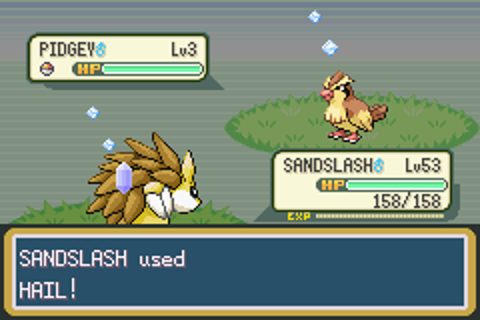
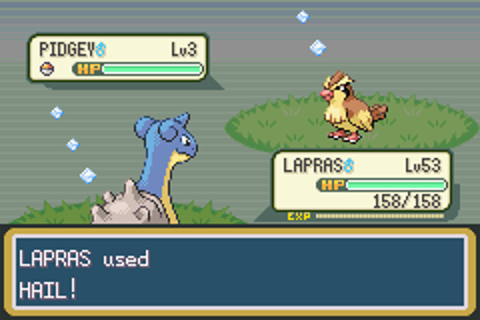
Weather shots: Blastoise Rain Dance, Charizard Sunny Day, Tyranitar Sand Stream, Lapras Hail
Each Pokemon can learn the move in this hack (checked tmhm_learnsets).

diff --git a/changes.html b/changes.html
@@ -78,10 +78,10 @@ ul.wx li:first-child{border-top:0}
 
     <section class="ovs" id="ov-weather" data-nav="Weather"><h2>Weather</h2>
       <div class="grid c2f" style="margin-top:0">
-        <div class="card"><h3>Rain</h3><img class="wxshot" src="img/weather_rain.png" alt="Rain Dance in battle: rain falls across the field" loading="lazy"><ul class="wx"><li>Water moves 1.5&times; stronger, Fire moves half power</li><li>Thunder never misses</li><li>SolarBeam half power</li><li>Weather Ball turns Water type, double power</li><li>Swift Swim doubles Speed</li><li>Rain Dish restores 1/16 HP each turn</li><li>Morning Sun, Synthesis and Moonlight heal 1/4 HP</li><li>From Rain Dance (5 turns) or Drizzle (until replaced)</li></ul></div>
-        <div class="card"><h3>Harsh sunlight</h3><img class="wxshot" src="img/weather_sun.png" alt="Sunny Day in battle: sunlight streams in" loading="lazy"><ul class="wx"><li>Fire moves 1.5&times; stronger, Water moves half power</li><li>SolarBeam fires without charging</li><li>Thunder accuracy drops to 50%</li><li>Pokémon can't be frozen</li><li>Weather Ball turns Fire type, double power</li><li>Chlorophyll doubles Speed</li><li>Morning Sun, Synthesis and Moonlight heal 2/3 HP</li><li>From Sunny Day (5 turns) or Drought (until replaced)</li></ul></div>
-        <div class="card"><h3>Sandstorm</h3><img class="wxshot" src="img/weather_sand.png" alt="Sandstorm in battle: the field is swept with sand" loading="lazy"><ul class="wx"><li><span class="new">★</span> Rock types get 1.5&times; Sp. Def</li><li><span class="new">★</span> Sand Veil Pokémon get 1.5&times; Sp. Def</li><li>Everyone else takes 1/16 HP each turn, except Rock, Ground and Steel types and Sand Veil</li><li>Sand Veil lowers foes' accuracy against it</li><li>SolarBeam half power</li><li>Weather Ball turns Rock type, double power</li><li>Morning Sun, Synthesis and Moonlight heal 1/4 HP</li><li>From Sandstorm (5 turns) or Sand Stream (until replaced)</li></ul></div>
-        <div class="card"><h3>Hail</h3><img class="wxshot" src="img/weather_hail.png" alt="Hail in battle: ice pellets fall" loading="lazy"><ul class="wx"><li><span class="new">★</span> Ice types get 1.5&times; Defense</li><li><span class="new">★</span> Blizzard never misses</li><li>Everyone else takes 1/16 HP each turn, except Ice types</li><li>SolarBeam half power</li><li>Weather Ball turns Ice type, double power</li><li>Morning Sun, Synthesis and Moonlight heal 1/4 HP</li><li>From Hail (5 turns)</li></ul></div>
+        <div class="card"><h3>Rain</h3><img class="wxshot" src="img/weather_rain.png?v=2" alt="Blastoise uses Rain Dance and rain falls across the field" loading="lazy"><ul class="wx"><li>Water moves 1.5&times; stronger, Fire moves half power</li><li>Thunder never misses</li><li>SolarBeam half power</li><li>Weather Ball turns Water type, double power</li><li>Swift Swim doubles Speed</li><li>Rain Dish restores 1/16 HP each turn</li><li>Morning Sun, Synthesis and Moonlight heal 1/4 HP</li><li>From Rain Dance (5 turns) or Drizzle (until replaced)</li></ul></div>
+        <div class="card"><h3>Harsh sunlight</h3><img class="wxshot" src="img/weather_sun.png?v=2" alt="Charizard uses Sunny Day and sunlight streams in" loading="lazy"><ul class="wx"><li>Fire moves 1.5&times; stronger, Water moves half power</li><li>SolarBeam fires without charging</li><li>Thunder accuracy drops to 50%</li><li>Pokémon can't be frozen</li><li>Weather Ball turns Fire type, double power</li><li>Chlorophyll doubles Speed</li><li>Morning Sun, Synthesis and Moonlight heal 2/3 HP</li><li>From Sunny Day (5 turns) or Drought (until replaced)</li></ul></div>
+        <div class="card"><h3>Sandstorm</h3><img class="wxshot" src="img/weather_sand.png?v=2" alt="Tyranitar's Sand Stream whips up a sandstorm" loading="lazy"><ul class="wx"><li><span class="new">★</span> Rock types get 1.5&times; Sp. Def</li><li><span class="new">★</span> Sand Veil Pokémon get 1.5&times; Sp. Def</li><li>Everyone else takes 1/16 HP each turn, except Rock, Ground and Steel types and Sand Veil</li><li>Sand Veil lowers foes' accuracy against it</li><li>SolarBeam half power</li><li>Weather Ball turns Rock type, double power</li><li>Morning Sun, Synthesis and Moonlight heal 1/4 HP</li><li>From Sandstorm (5 turns) or Sand Stream (until replaced)</li></ul></div>
+        <div class="card"><h3>Hail</h3><img class="wxshot" src="img/weather_hail.png?v=2" alt="Lapras uses Hail and ice pellets fall" loading="lazy"><ul class="wx"><li><span class="new">★</span> Ice types get 1.5&times; Defense</li><li><span class="new">★</span> Blizzard never misses</li><li>Everyone else takes 1/16 HP each turn, except Ice types</li><li>SolarBeam half power</li><li>Weather Ball turns Ice type, double power</li><li>Morning Sun, Synthesis and Moonlight heal 1/4 HP</li><li>From Hail (5 turns)</li></ul></div>
       </div>
       <p class="subnote" style="margin-top:14px"><span class="new">★</span> Changed compared to the original games</p>
     </section>
